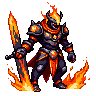
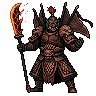
Boss art: Eastern redesign of b1, b2, b2b, b4 (PixelLab Pro); drop Sprite Cook from rules

diff --git a/Assets/ThirdParty/PixelLab-Assets.md b/Assets/ThirdParty/PixelLab-Assets.md
@@ -89,3 +89,12 @@ Nhật ký các asset tạo bằng PixelLab. Mỗi dòng: file, tool, prompt, ng
 | `Assets/Resources/PixelLab/Icons/i_ngu_hanh_ban.png` | REST generate-image-pixflux 40x40 (account 1) | - | round disc with five colored element segments, filling the frame, xianxia fantasy RPG item icon, pixel art, bold black outline, vibrant colors |
 | `Assets/Resources/PixelLab/Icons/i_van_kiem_quy_tong.png` | REST generate-image-pixflux 40x40 (account 1) | - | ring of many tiny flying swords, filling the frame, xianxia fantasy RPG item icon, pixel art, bold black outline, vibrant colors |
 | `Assets/Resources/PixelLab/Icons/i_thien_dao_chi_tam.png` | REST generate-image-pixflux 40x40 (account 1) | - | glowing golden heart-shaped crystal, filling the frame, xianxia fantasy RPG item icon, pixel art, bold black outline, vibrant colors |
+
+## Boss redesign (2026-10-28, Eastern xianxia concept, Tier 1 account, REST)
+Tool: `POST /v2/generate-image-v2` (Pro, 96x96, style_image = Bosses/b3.png, style color_palette off), 4 variants per call; b4 head re-drawn with `POST /v2/inpaint-image-pro-flash` (mask over head, seed 2).
+| File | Prompt (shortened) |
+|---|---|
+| `Assets/Resources/PixelLab/Bosses/b1.png` (variant 4) | towering mountain yaoguai demon king, cracked dark blue-grey stone skin with glowing violet fissures, ONE huge violet vertical eye on forehead, no beard, ox horns, tattered Taoist monk robe, bone prayer beads, yellow talisman seals, clawed hands |
+| `Assets/Resources/PixelLab/Bosses/b2.png` (variant 2) | hell general like a Peking opera warrior, lamellar scale armor black/orange, lion-head pauldrons, demon-face helmet with short red plume, four war flags on back (kao qi), burning guandao |
+| `Assets/Resources/PixelLab/Bosses/b2b.png` (variant 1) | Journey to the West spider demoness queen, pale woman torso with jade phoenix hairpin, dark teal silk robe, black spider body with toxic green spots, cluster of five white silk cocoons under abdomen, reference image = earlier Pixflux draft |
+| `Assets/Resources/PixelLab/Bosses/b4.png` (variant 3 + inpaint head and right hand, seed 1) | demon emperor in flowing black robe with gold dragon embroidery, wide sleeves, mianguan crown with bead strands, floating, head inpainted (large pale face, glowing purple eyes, flat mianguan board with gold bead strands), right hand inpainted holding a swirling purple flame (hand variant 2), left hand hidden in the sleeve by a third inpaint; no armor, no halo |
